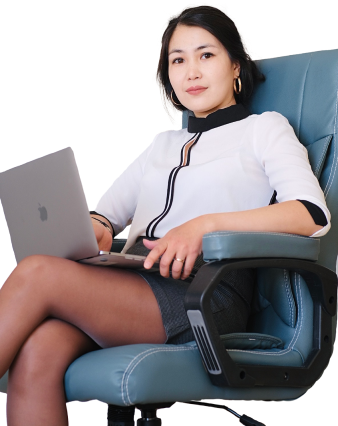
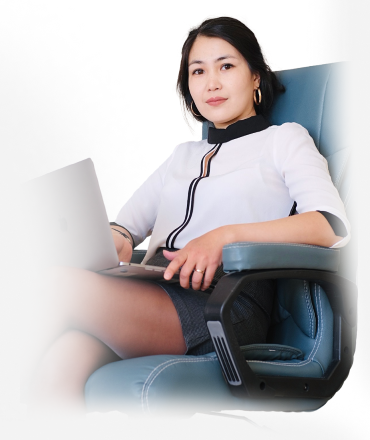
price

diff --git a/assets/css/style.min.css b/assets/css/style.min.css
@@ -1,1 +1,1 @@
-@font-face{font-family:"Minion Pro";src:local("Minion Pro Bold It"),local("Minion-Pro-Bold-It"),url("./../assets/fonts/minion/MinionPro-BoldIt.woff2") format("woff2"),url("./../assets/fonts/minion/MinionPro-BoldIt.woff") format("woff"),url("./../assets/fonts/minion/MinionPro-BoldIt.ttf") format("truetype");font-weight:700;font-style:normal}@font-face{font-family:"Minion Pro";src:local("Minion Pro Bold"),local("Minion-Pro-Bold"),url("./../assets/fonts/minion/MinionPro-Bold.woff2") format("woff2"),url("./../assets/fonts/minion/MinionPro-Bold.woff") format("woff"),url("./../assets/fonts/minion/MinionPro-Bold.ttf") format("truetype");font-weight:700;font-style:normal}*{padding:0;margin:0;border:0}*,*:before,*:after{box-sizing:border-box}:focus,:active{outline:none}a:focus,a:active{outline:none}a{color:#343434}nav,footer,header,aside{display:block}html,body{height:100%;width:100%;line-height:1.4em;font-size:16px;font-family:"Montserrat";-ms-text-size-adjust:100%;-moz-text-size-adjust:100%;-webkit-text-size-adjust:100%}input,button,textarea{font-family:inherit}input::-ms-clear{display:none}button{cursor:pointer}button::-moz-focus-inner{padding:0;border:0}a,a:visited{text-decoration:none}a:hover{text-decoration:none}ul li{list-style:none}img{vertical-align:top}h1,h2,h3,h4,h5,h6{font-size:inherit;font-weight:700;line-height:1.2em;color:#343434}h1,h2{font-family:"Minion Pro";font-size:48px}h3{font-size:20px;line-height:1.4em}.container{max-width:1180px;padding:0 20px;width:100%;margin:0 auto}.wrapper{display:flex;flex-direction:column;height:100%}.header{flex:0 0 auto}.main{flex:1 0 auto}.footer{flex:0 0 auto}.icon{width:28px;height:28px}.button{position:relative;width:280px;height:83px;border-radius:4px;transition:.3s;font-weight:600;font-size:18px;line-height:130%;color:#fff}.button::before{content:"";position:absolute;bottom:0;right:0;width:100%;height:100%;border-radius:4px}.button::after{content:"";position:absolute;bottom:0;right:0;width:100%;height:100%;border-radius:4px}.button-blue{background-color:#9ed0ff;box-shadow:0px -50px 50px 0px #3c8cda inset}.button-blue::before{box-shadow:0px 7px 10px 0px #0f6dc9}.button-blue::after{box-shadow:0px 4px 0px 0px #0f6dc9}.button-blue:hover{box-shadow:0px 50px 50px 0px #1567b7 inset;background:#4197ec}.button-pink{background-color:#ee60d9;box-shadow:0px -50px 50px 0px #7b176c inset}.button-pink::before{box-shadow:0px 7px 10px 0px #9f0789}.button-pink::after{box-shadow:0px 4px 0px 0px #45093c}.button-pink:hover{box-shadow:0px 50px 50px 0px #ad0995 inset;background:#bd1ba5}.title__wrapper{text-align:center}.title__wrapper p{width:525px;margin:0 auto;font-size:18px;line-height:140%;margin-top:4px}.header{z-index:4}.header__supinfo-wrap{background:#f8fbfe}.header__supinfo{display:flex;justify-content:space-between;align-items:center;padding:4px 0;font-size:16px}.header__supinfo p{line-height:18px}.header__supinfo a{display:flex;align-items:center;line-height:20px}.header__supinfo .icon{fill:#25d366;margin-right:4px}.header__main{background-color:#fff;display:flex;justify-content:space-between;align-items:center;padding:4px 0}.header__main-left{display:flex;align-items:center}.header__logo{width:67px;height:60px}.header__list{display:flex;justify-content:space-between;align-items:center;margin:0 -16px;margin-left:40px}.header__item{margin:0 16px}.header__item a{transition:.3s}.header__item a:hover{color:#449ef6}.header__social{display:flex;align-items:center;margin:0 -6px}.header__social svg{margin:0 6px}.header__social .icon{fill:#449ef6}.firstscreen{padding-top:32px;background:url(./../image/home/firstscreen/bg.jpg);background-repeat:no-repeat;background-size:cover;padding-bottom:72px}.firstscreen__wrapper{position:relative}.firstscreen__info{position:relative;width:685px;z-index:1}.firstscreen__info strong{color:#c029aa;font-style:italic}.firstscreen__info p{width:530px;margin-top:12px;font-size:18px}.firstscreen__info .firstscreen__subinfo{width:383px;margin-top:20px;color:#4095e7;font-size:15px;font-style:italic}.firstscreen__button{display:flex;align-items:center;margin-top:32px}.firstscreen__play-wrap{position:relative;margin-left:40px}.firstscreen__play{display:inline-block;width:68px;height:68px;position:relative}.firstscreen__play img{position:relative;z-index:1}.firstscreen__play::before{content:"";position:absolute;display:block;top:-8px;left:-8px;width:84px;height:84px;background:#51a7fa;z-index:-1;border-radius:50%}.firstscreen__play::after{content:"";position:absolute;display:block;top:-17px;left:-17px;width:101px;height:101px;background:#4197ea;z-index:-2;border-radius:50%}.firstscreen__play-text{position:absolute;display:block;width:140px;left:50px;top:10px;background:#f6f6f6;border:1px solid #e4e4e4;border-radius:4px;padding:4px 0;padding-left:20px;padding-right:12px;font-size:16px;line-height:1.1em}.firstscreen__play-wrap:hover .firstscreen__play::before{animation:buttonPlayAnim 1s ease-in-out infinite}.firstscreen__play-wrap:hover .firstscreen__play::after{animation:buttonPlayAnimTwo 1s ease-in-out infinite}@keyframes buttonPlayAnim{0%{transform:scale(1)}100%{transform:scale(1.3)}}@keyframes buttonPlayAnimTwo{0%{transform:scale(1);opacity:1}100%{transform:scale(1.3);opacity:.1}}.firstscreen__image{position:absolute;right:0px;top:-100px;width:854px;height:800px;overflow:hidden}.firstscreen__image img{width:854px;height:921px;-o-object-fit:cover;object-fit:cover}.firstscreen__list{display:flex;justify-content:space-between;margin:0 -20px;margin-top:60px;position:relative;z-index:1}.firstscreen__item{position:relative;margin:0 20px;background-color:#fff;border:.6px solid rgba(93,157,231,.8);border-radius:6px;width:256px;height:194px;padding-top:48px;padding-bottom:12px;text-align:center}.firstscreen__item span{top:-7px;right:50%;transform:translateX(50%);position:absolute}.firstscreen__item::before{content:"";position:absolute;display:block;top:-7px;left:-7px;z-index:-1;width:268px;height:206px;background:#fff;box-shadow:0px 2px 10px rgba(0,0,0,.15);border-radius:6px}.firstscreen__item::after{content:"";position:absolute;display:block;top:15px;left:0px;z-index:-2;width:256px;height:194px;background:#fff;box-shadow:0px 2px 10px rgba(0,0,0,.15);border-radius:6px}.service{position:relative;padding:60px 0;background-color:#f3f3f3}.service__list{display:flex;flex-wrap:wrap;margin:-12px;margin-top:20px}.service__item{background-color:#fff;width:calc(50% - 24px);height:362px;border-radius:6px;display:flex;margin:12px;padding:0 28px;padding-top:40px;padding-bottom:32px;z-index:1}.service__image{display:flex;align-items:flex-end}.service__left{display:flex;flex-direction:column}.service__left h3{flex:0 0 auto}.service__left p{flex:1 1 auto;margin-top:12px}.service__left button{flex:0 0 auto}.service::before{content:"";position:absolute;display:block;right:5px;bottom:0px;width:155px;height:160px;background:url(./../image/home/service/decor.png);background-repeat:no-repeat}.advantage{padding-top:32px;padding-bottom:60px}.advantage__wrap{position:relative;background-color:#f3f3f3;border-radius:30px;padding:0 36px;padding-top:40px;padding-bottom:36px;margin-top:32px}.advantage__wrap::before{content:"";position:absolute;display:block;top:50%;left:0;transform:translateY(-50%) translateX(-93%);width:216.28px;height:123.02px;background:url(./../image/decor/clothespin.png);background-repeat:no-repeat;background-size:contain}.advantage__wrap::after{content:"";position:absolute;display:block;top:50%;right:0;transform:translateY(-50%) translateX(93%) rotate(180deg);width:216.28px;height:123.02px;background:url(./../image/decor/clothespin.png);background-repeat:no-repeat;background-size:contain}.advantage__container{display:flex;flex-wrap:wrap;margin:-16px}.advantage__item{display:flex;align-items:flex-start;width:calc(50% - 32px);margin:16px}.advantage__info{margin-left:12px}.advantage__info .button{margin-top:12px}
+@font-face{font-family:"Minion Pro";src:local("Minion Pro Bold It"),local("Minion-Pro-Bold-It"),url("./../assets/fonts/minion/MinionPro-BoldIt.woff2") format("woff2"),url("./../assets/fonts/minion/MinionPro-BoldIt.woff") format("woff"),url("./../assets/fonts/minion/MinionPro-BoldIt.ttf") format("truetype");font-weight:700;font-style:normal;font-display:swap}@font-face{font-family:"Minion Pro";src:local("Minion Pro Bold"),local("Minion-Pro-Bold"),url("./../assets/fonts/minion/MinionPro-Bold.woff2") format("woff2"),url("./../assets/fonts/minion/MinionPro-Bold.woff") format("woff"),url("./../assets/fonts/minion/MinionPro-Bold.ttf") format("truetype");font-weight:700;font-style:normal;font-display:swap}*{padding:0;margin:0;border:0}*,*:before,*:after{box-sizing:border-box}:focus,:active{outline:none}a:focus,a:active{outline:none}a{color:#343434}nav,footer,header,aside{display:block}html,body{height:100%;width:100%;line-height:1.4em;font-size:16px;font-family:"Montserrat";-ms-text-size-adjust:100%;-moz-text-size-adjust:100%;-webkit-text-size-adjust:100%}input,button,textarea{font-family:inherit}input::-ms-clear{display:none}button{cursor:pointer}button::-moz-focus-inner{padding:0;border:0}a,a:visited{text-decoration:none}a:hover{text-decoration:none}ul li{list-style:none}img{vertical-align:top}h1,h2,h3,h4,h5,h6{font-size:inherit;font-weight:700;line-height:1.2em;color:#343434}h1,h2{font-family:"Minion Pro";font-size:48px}h3{font-size:20px;line-height:1.4em}.container{max-width:1180px;padding:0 20px;width:100%;margin:0 auto}.wrapper{display:flex;flex-direction:column;height:100%}.header{flex:0 0 auto}.main{flex:1 0 auto}.footer{flex:0 0 auto}.icon{width:28px;height:28px}.button{position:relative;width:280px;height:83px;border-radius:4px;transition:.3s;font-weight:600;font-size:18px;line-height:130%;color:#fff}.button::before{content:"";position:absolute;bottom:0;right:0;width:100%;height:100%;border-radius:4px}.button::after{content:"";position:absolute;bottom:0;right:0;width:100%;height:100%;border-radius:4px}.button-blue{background-color:#9ed0ff;box-shadow:0px -50px 50px 0px #3c8cda inset}.button-blue::before{box-shadow:0px 7px 10px 0px #0f6dc9}.button-blue::after{box-shadow:0px 4px 0px 0px #0f6dc9}.button-blue:hover{box-shadow:0px 50px 50px 0px #1567b7 inset;background:#4197ec}.button-pink{background-color:#ee60d9;box-shadow:0px -50px 50px 0px #7b176c inset}.button-pink::before{box-shadow:0px 7px 10px 0px #9f0789}.button-pink::after{box-shadow:0px 4px 0px 0px #45093c}.button-pink:hover{box-shadow:0px 50px 50px 0px #ad0995 inset;background:#bd1ba5}.title__wrapper{text-align:center}.title__wrapper p{width:525px;margin:0 auto;font-size:18px;line-height:140%;margin-top:4px}.header{z-index:4}.header__supinfo-wrap{background:#f8fbfe}.header__supinfo{display:flex;justify-content:space-between;align-items:center;padding:4px 0;font-size:16px}.header__supinfo p{line-height:18px}.header__supinfo a{display:flex;align-items:center;line-height:20px}.header__supinfo .icon{fill:#25d366;margin-right:4px}.header__main{background-color:#fff;display:flex;justify-content:space-between;align-items:center;padding:4px 0}.header__main-left{display:flex;align-items:center}.header__logo{width:67px;height:60px}.header__list{display:flex;justify-content:space-between;align-items:center;margin:0 -16px;margin-left:40px}.header__item{margin:0 16px}.header__item a{transition:.3s}.header__item a:hover{color:#449ef6}.header__social{display:flex;align-items:center;margin:0 -6px}.header__social svg{margin:0 6px}.header__social .icon{fill:#449ef6}.firstscreen{padding-top:32px;background:url(./../image/home/firstscreen/bg.jpg);background-repeat:no-repeat;background-size:cover;padding-bottom:72px}.firstscreen__wrapper{position:relative}.firstscreen__info{position:relative;width:685px;z-index:1}.firstscreen__info strong{color:#c029aa;font-style:italic}.firstscreen__info p{width:530px;margin-top:12px;font-size:18px}.firstscreen__info .firstscreen__subinfo{width:383px;margin-top:20px;color:#4095e7;font-size:15px;font-style:italic}.firstscreen__button{display:flex;align-items:center;margin-top:32px}.firstscreen__play-wrap{position:relative;margin-left:40px}.firstscreen__play{display:inline-block;width:68px;height:68px;position:relative}.firstscreen__play img{position:relative;z-index:1}.firstscreen__play::before{content:"";position:absolute;display:block;top:-8px;left:-8px;width:84px;height:84px;background:#51a7fa;z-index:-1;border-radius:50%}.firstscreen__play::after{content:"";position:absolute;display:block;top:-17px;left:-17px;width:101px;height:101px;background:#4197ea;z-index:-2;border-radius:50%}.firstscreen__play-text{position:absolute;display:block;width:140px;left:50px;top:10px;background:#f6f6f6;border:1px solid #e4e4e4;border-radius:4px;padding:4px 0;padding-left:20px;padding-right:12px;font-size:16px;line-height:1.1em}.firstscreen__play-wrap:hover .firstscreen__play::before{animation:buttonPlayAnim 1s ease-in-out infinite}.firstscreen__play-wrap:hover .firstscreen__play::after{animation:buttonPlayAnimTwo 1s ease-in-out infinite}@keyframes buttonPlayAnim{0%{transform:scale(1)}100%{transform:scale(1.3)}}@keyframes buttonPlayAnimTwo{0%{transform:scale(1);opacity:1}100%{transform:scale(1.3);opacity:.1}}.firstscreen__image{position:absolute;right:0px;top:-100px;width:854px;height:800px;overflow:hidden}.firstscreen__image img{width:854px;height:921px;-o-object-fit:cover;object-fit:cover}.firstscreen__list{display:flex;justify-content:space-between;margin:0 -20px;margin-top:60px;position:relative;z-index:1}.firstscreen__item{position:relative;margin:0 20px;background-color:#fff;border:.6px solid rgba(93,157,231,.8);border-radius:6px;width:256px;height:194px;padding-top:48px;padding-bottom:12px;text-align:center}.firstscreen__item span{top:-7px;right:50%;transform:translateX(50%);position:absolute}.firstscreen__item::before{content:"";position:absolute;display:block;top:-7px;left:-7px;z-index:-1;width:calc(100% + 12px);height:calc(100% + 12px);background:#fff;box-shadow:0px 2px 10px rgba(0,0,0,.15);border-radius:6px}.firstscreen__item::after{content:"";position:absolute;display:block;top:15px;left:0px;z-index:-2;width:100%;height:100%;background:#fff;box-shadow:0px 2px 10px rgba(0,0,0,.15);border-radius:6px}.service{position:relative;padding:60px 0;background-color:#f3f3f3}.service__list{display:flex;flex-wrap:wrap;margin:-12px;margin-top:20px}.service__item{background-color:#fff;width:calc(50% - 24px);height:362px;border-radius:6px;display:flex;margin:12px;padding:0 28px;padding-top:40px;padding-bottom:32px;z-index:1}.service__image{display:flex;align-items:flex-end}.service__left{display:flex;flex-direction:column}.service__left h3{flex:0 0 auto}.service__left p{flex:1 1 auto;margin-top:12px}.service__left button{flex:0 0 auto}.service::before{content:"";position:absolute;display:block;right:5px;bottom:0px;width:155px;height:160px;background:url(./../image/home/service/decor.png);background-repeat:no-repeat;background-size:contain}.advantage{padding-top:32px;padding-bottom:60px;overflow:hidden}.advantage__wrap{position:relative;background-color:#f3f3f3;border-radius:30px;padding:0 36px;padding-top:40px;padding-bottom:36px;margin-top:32px}.advantage__wrap::before{content:"";position:absolute;display:block;top:50%;left:0;transform:translateY(-50%) translateX(-93%);width:216.28px;height:123.02px;background:url(./../image/decor/clothespin.png);background-repeat:no-repeat;background-size:contain}.advantage__wrap::after{content:"";position:absolute;display:block;top:50%;right:0;transform:translateY(-50%) translateX(93%) rotate(180deg);width:216.28px;height:123.02px;background:url(./../image/decor/clothespin.png);background-repeat:no-repeat;background-size:contain}.advantage__container{display:flex;flex-wrap:wrap;margin:-16px}.advantage__item{display:flex;align-items:flex-start;width:calc(50% - 32px);margin:16px}.advantage__info{margin-left:12px}.advantage__info .button{margin-top:12px}.price{position:relative;padding-top:60px;background-color:#f3f3f3}.price__wrapper{position:relative}.price__wrap{display:flex;margin-top:60px}.price__list{margin:0 -20px;position:relative;z-index:1}.price__item{position:relative;background-color:#fff;border:.6px solid rgba(93,157,231,.8);border-radius:6px;width:530px;padding-top:40px;padding-bottom:32px;margin:0 20px;text-align:center}.price__item p{margin-top:20px;line-height:1.1em}.price__item:last-child{margin-top:40px}.price__item::before{content:"";position:absolute;display:block;top:-8px;left:-14px;z-index:-1;width:calc(100% + 28px);height:calc(100% + 16px);background:#fff;box-shadow:0px 2px 10px rgba(0,0,0,.15);border-radius:6px}.price__item::after{content:"";position:absolute;display:block;top:-8px;left:50%;transform:translateX(-50%);width:27px;height:33px;background:url(./../image/home/flag.png);background-repeat:no-repeat;background-size:contain}.price__item-subinfo{font-weight:600;font-size:18px;line-height:1em;color:#0f6dc9}.price__right{margin-left:52px;z-index:1}.price__right a{display:flex;justify-content:center;align-items:center}.price__right p{width:297px;font-size:20px;line-height:140%}.price__right .button-blue{margin-top:52px}.price__right .button-pink{margin-top:28px}.price__image{position:absolute;right:0;bottom:0;width:338px;height:426px}.price::before{content:"";position:absolute;display:block;top:-90px;left:0px;width:450px;height:376px;background:url(./../image/home/price/decor.png);background-repeat:no-repeat;background-size:contain}

diff --git a/assets/scss/style/home/_price.scss b/assets/scss/style/home/_price.scss
@@ -1,0 +1,120 @@
+.price {
+    position: relative;
+    @include ui-padding(top, 15);
+    @include ui-padding(button, 21);
+    background-color: #f3f3f3;
+    &__wrapper {
+        position: relative;
+    }
+    // .price__wrap
+
+    &__wrap {
+        display: flex;
+        @include ui-margin(top, 15);
+    }
+
+    // .price__list
+
+    &__list {
+        @include ui-margin(x, -5);
+        position: relative;
+        z-index: $ui-index-1;
+    }
+    &__item {
+        position: relative;
+        background-color: white;
+        border: 0.6px solid rgba(93, 157, 231, 0.8);
+        border-radius: 6px;
+        width: 530px;
+        @include ui-padding(top, 10);
+        @include ui-padding(bottom, 8);
+        @include ui-margin(x, 5);
+        text-align: center;
+        p {
+            @include ui-margin(top, 5);
+            line-height: 1.1em;
+        }
+    }
+    &__item:last-child {
+        @include ui-margin(top, 10);
+    }
+    &__item::before {
+        content: "";
+        position: absolute;
+        display: block;
+        top: -8px;
+        left: -14px;
+        z-index: -1;
+        width: calc(100% + 28px);
+        height: calc(100% + 16px);
+        background: #ffffff;
+        box-shadow: 0px 2px 10px rgba(0, 0, 0, 0.15);
+        border-radius: 6px;
+    }
+    &__item::after {
+        content: "";
+        position: absolute;
+        display: block;
+        top: -8px;
+        left: 50%;
+        transform: translateX(-50%);
+        width: 27px;
+        height: 33px;
+        background: url(./../image/home/flag.png);
+        background-repeat: no-repeat;
+        background-size: contain;
+    }
+    // .price__item-subinfo
+
+    &__item-subinfo {
+        font-weight: 600;
+        font-size: 18px;
+        line-height: 1em;
+        color: #0f6dc9;
+    }
+
+    // .price__right
+
+    &__right {
+        @include ui-margin(left, 13);
+        z-index: $ui-index-1;
+        a {
+            display: flex;
+            justify-content: center;
+            align-items: center;
+        }
+        p {
+            width: 297px;
+            font-size: 20px;
+            line-height: 140%;
+        }
+        .button-blue {
+            @include ui-margin(top, 13);
+        }
+        .button-pink {
+            @include ui-margin(top, 7);
+        }
+    }
+
+    // .price__image
+
+    &__image {
+        position: absolute;
+        right: 0;
+        bottom: 0;
+        width: 338px;
+        height: 426px;
+    }
+}
+.price::before {
+    content: "";
+    position: absolute;
+    display: block;
+    top: -90px;
+    left: 0px;
+    width: 450px;
+    height: 376px;
+    background: url(./../image/home/price/decor.png);
+    background-repeat: no-repeat;
+    background-size: contain;
+}

diff --git a/index.html b/index.html
@@ -108,7 +108,7 @@
                         <ul class="firstscreen__list">
                             <li class="firstscreen__item">
                                 <span>
-                                    <img src="./assets/image/home/flag.png" alt="Флаг с цифрой 1">
+                                    <img src="./assets/image/home/flag.png" alt="Флаг с цифрой 1" width="28" height="33">
                                 </span>
                                 <p>Повысим качество вашей продукции, используя наш опыт и экспертизу в разработке
                                     стандартов и технической документации на
@@ -265,7 +265,7 @@
                     </div>
                 </div>
             </section>
-            <!-- <section class="price" aria-labelledby="price-title">
+            <section class="price" aria-labelledby="price-title">
                 <div class="container">
                     <div class="price__wrapper">
                         <div class="title__wrapper">
@@ -290,15 +290,15 @@
                                 <p>Доверьтесь моему профессионализму и опыту в области стандартизации, и мы вместе
                                     создадим стандарты организации, которые
                                     помогут вашему бизнесу достичь новых высот!</p>
-                                <button type="button" class="button">Связаться с нами </button>
-                                <a href="./assets/download/file.txt" download="Пример заявки">Скачать пример заявки</a>
+                                <button type="button" class="button button-blue">Связаться с нами </button>
+                                <a href="./assets/download/file.txt" download="Пример заявки" class="button button-pink">Скачать пример заявки</a>
                             </div>
                             <img src="./assets/image/home/price/image.png" alt="Девушка сидит на кресле с ноутбуков в руках"
-                                class="price__image">
+                                class="price__image" width="370" height="440">
                         </div>
                     </div>
                 </div>
-            </section> -->
+            </section>
             <!-- <sectiin class="experience" aria-labelledby="experience-title">
                 <div class="container">
                     <div class="experience__wrapper">

diff --git a/assets/scss/style/global/_fonts.scss b/assets/scss/style/global/_fonts.scss
@@ -1,19 +1,21 @@
 @font-face {
-    font-family: 'Minion Pro';
-    src: local('Minion Pro Bold It'), local('Minion-Pro-Bold-It'),
-        url('./../assets/fonts/minion/MinionPro-BoldIt.woff2') format('woff2'),
-        url('./../assets/fonts/minion/MinionPro-BoldIt.woff') format('woff'),
-        url('./../assets/fonts/minion/MinionPro-BoldIt.ttf') format('truetype');
+    font-family: "Minion Pro";
+    src: local("Minion Pro Bold It"), local("Minion-Pro-Bold-It"),
+        url("./../assets/fonts/minion/MinionPro-BoldIt.woff2") format("woff2"),
+        url("./../assets/fonts/minion/MinionPro-BoldIt.woff") format("woff"),
+        url("./../assets/fonts/minion/MinionPro-BoldIt.ttf") format("truetype");
     font-weight: 700;
     font-style: normal;
-  }
+    font-display: swap;
+}
 
 @font-face {
-    font-family: 'Minion Pro';
-    src: local('Minion Pro Bold'), local('Minion-Pro-Bold'),
-        url('./../assets/fonts/minion/MinionPro-Bold.woff2') format('woff2'),
-        url('./../assets/fonts/minion/MinionPro-Bold.woff') format('woff'),
-        url('./../assets/fonts/minion/MinionPro-Bold.ttf') format('truetype');
+    font-family: "Minion Pro";
+    src: local("Minion Pro Bold"), local("Minion-Pro-Bold"),
+        url("./../assets/fonts/minion/MinionPro-Bold.woff2") format("woff2"),
+        url("./../assets/fonts/minion/MinionPro-Bold.woff") format("woff"),
+        url("./../assets/fonts/minion/MinionPro-Bold.ttf") format("truetype");
     font-weight: 700;
     font-style: normal;
-  }
+    font-display: swap;
+}

diff --git a/assets/scss/style/home/_firstscreen.scss b/assets/scss/style/home/_firstscreen.scss
@@ -176,8 +176,8 @@
         top: -7px;
         left: -7px;
         z-index: -1;
-        width: 268px;
-        height: 206px;
+        width: calc(100% + 12px);
+        height: calc(100% + 12px);
         background: #ffffff;
         box-shadow: 0px 2px 10px rgba(0, 0, 0, 0.15);
         border-radius: 6px;
@@ -189,8 +189,8 @@
         top: 15px;
         left: 0px;
         z-index: -2;
-        width: 256px;
-        height: 194px;
+        width: 100%;
+        height: 100%;
         background: #ffffff;
         box-shadow: 0px 2px 10px rgba(0, 0, 0, 0.15);
         border-radius: 6px;

diff --git a/assets/scss/style.scss b/assets/scss/style.scss
@@ -4,3 +4,4 @@
 @import "./style/home/_firstscreen.scss";
 @import "./style/home/_service.scss";
 @import "./style/home/_advantage.scss";
+@import "./style/home/_price.scss";

diff --git a/assets/scss/style/home/_advantage.scss b/assets/scss/style/home/_advantage.scss
@@ -1,6 +1,7 @@
 .advantage {
     @include ui-padding(top, 8);
     @include ui-padding(bottom, 15);
+    overflow: hidden;
     // .advantage__wrapper
 
     &__wrapper {

diff --git a/assets/scss/style/home/_service.scss b/assets/scss/style/home/_service.scss
@@ -61,4 +61,5 @@
     height: 160px;
     background: url(./../image/home/service/decor.png);
     background-repeat: no-repeat;
+    background-size: contain;
 }
